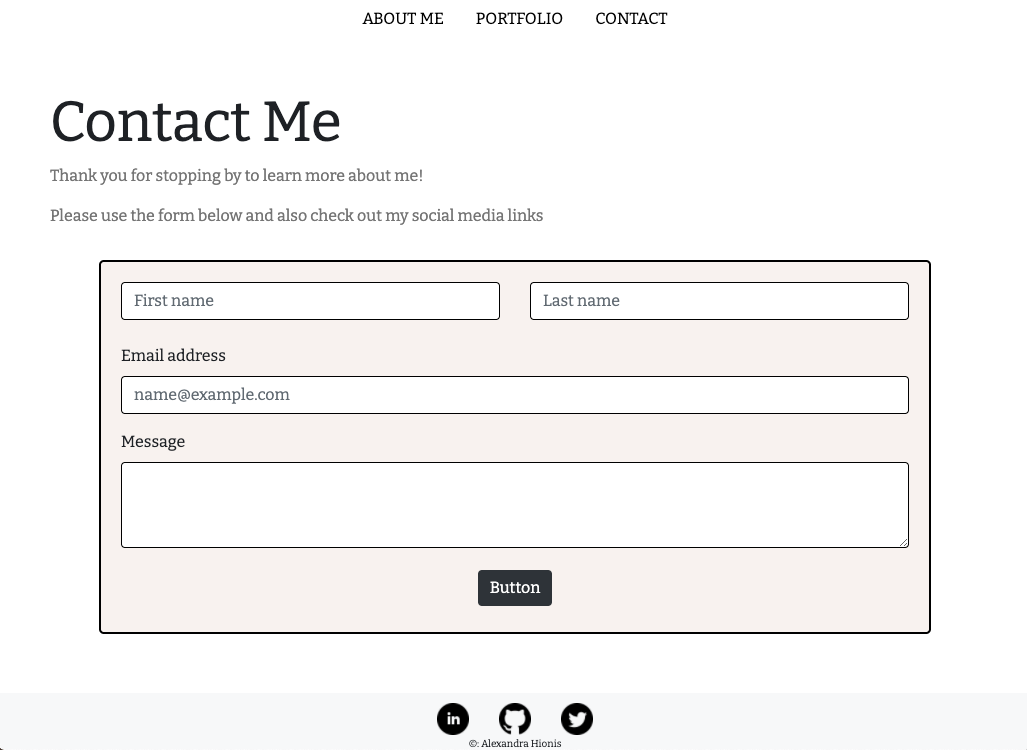
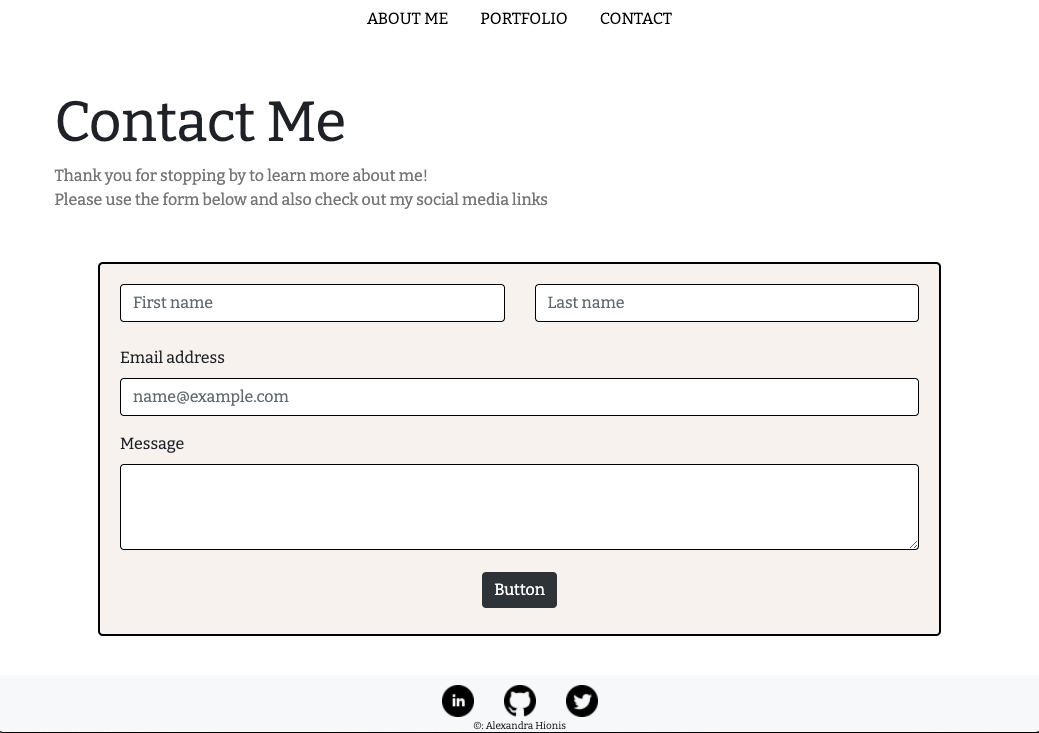
edited portfolio page. Trying to fix weird gap when browser size is reduced

diff --git a/portfolio.html b/portfolio.html
@@ -38,33 +38,48 @@
 
     <!-- start of main section -->
     <main>
-      <div class="jumbotron jumbotron-fluid">
-        <div class="container">
-          <h1 id="portfolio-title" class="display-4">Portfolio</h1>
-          <p id="name-margin" class="portfolio-info">Alexandra Hionis</p>
-          <p>
-            <a class="portfolio-info portfolio-text" href="alexandra.hionis@gmail.com">Email: alexandra.hionis@gmail.com</a>
-          </p>
-          <p class="portfolio-info portfolio-text">Phone: 610-329-4279</p> 
-                
+      <div class="container">
+        <div class="row">
+          <!-- about me -->  
+          <div class="col-12 portfolio-title">
+            <h1 id="portfolio" class="display-4">Portfolio</h1>
+            <p class="portfolio-info">Alexandra Hionis</p> 
+            <p class="portfolio-info"><a class="two" href="alexandra.hionis@gmail.com">Alexandra.hionis@gmail.com</a></p>
+            <p class="portfolio-info">610-329-4279</p> 
+            <p class="portfolio-info"><a class="two" href="" target="blank">Resume</a></p>
+            </div>
         </div>
-    </div>
-
+      </div>
+       
     <!-- <img src="http://placehold.it/350x350" alt="Placeholder" class="img-thumbnail"> -->
 
     <!-- start of portfolio section-->
     <div class="container">
-      <div class="row">
-        <div class="col-sm">
-          One of three columns
-        </div>
-        <div class="col-sm">
-          One of three columns
-        </div>
-        <div class="col-sm">
-          One of three columns
+      <div class="row portfolio-row">
+        <div class="col-">
+          <a href="https://github.com/oxfordblucher/Restaurant-Roulette" target="blank"><img class="placeholders" src="assets/images/UMEWE.png" alt="project image"></a>
         </div>
         
+        <div class="col-">
+          <a href="https://github.com/Alexandra-Hionis/Daily-Work-Planner" target="blank"><img class="placeholders" src="assets/images/planner.png" alt="project image"></a>
+        </div>
+        <div class="col-">
+          <a href="https://github.com/Alexandra-Hionis/secure-password-generator" target="blank"><img class="placeholders" src="assets/images/password.png" alt="project image"></a>
+        </div>
+      </div>
+    </div>
+    <div class="container">
+      <div class="row portfolio-row">
+        <div class="col-">
+          <a href="https://github.com/Alexandra-Hionis/JavaScript-Quiz" target="blank"><img class="placeholders" src="assets/images/quiz.png" alt="project image"></a>
+        </div>
+        
+        <div class="col-">
+          <a href="https://github.com/Alexandra-Hionis/Weather-Dashboard" target="blank"><img class="placeholders" src="assets/images/weather.png" alt="project image"></a>
+        </div>
+        <div class="col-">
+          <a href="" target="blank"><img class="placeholders" src="assets/images/more.png" alt="project image"></a>
+        </div>
       </div>
     </div>
     <!-- end of portfolio section-->

diff --git a/assets/css/portfolio.css b/assets/css/portfolio.css
@@ -10,13 +10,18 @@ body{
 a:hover {
     color: #F9F4F1;
 }
-
-a:hover
-.portfolio-text {
-    color:black;
-    text-decoration: none;   
+a.two:link {
+    color: grey;
+    text-decoration: none;
+}
+a.two:visited {
+    color: grey;
+}
+a.two:hover {
+    color: grey;
 }
 
+/* nav styles */
 .nav-link {
     color: black;
     font-family: 'Bitter', serif;
@@ -38,24 +43,30 @@ a:hover
     padding: 0;
 }
 
-#portfolio-title {
+/* portfolio section styles */
+.portfolio-title {
     background-color: white;
-    margin-top: 50px;   
+    margin-top: 50px;  
+    font-family: 'Bitter', serif;
+    text-align: left; 
 }
 
 .portfolio-info {
     color: grey;
+    margin-bottom: 0;
 }
 
-.portfolio-text {
-    margin-top: -20px;
+.portfolio-row {
+    margin-top: 50px;
 }
 
-#portfolio-span {
-    font-weight: bold;
+/* image styles */
+.placeholders {
+    width: 280px;
+    height: 185px;
+    border: solid black 2px;
+    margin: 10px;
 }
-
-
 /* footer style */
 .navbar {
     display: flex;

diff --git a/contact.html b/contact.html
@@ -39,13 +39,17 @@
     <!-- start of main section -->
     <main>
 
-        <div class="jumbotron jumbotron-fluid">
-            <div class="container">
-              <h1 id="contact" class="display-4">Contact Me</h1>
-                <p class="contact-info">Thank you for stopping by to learn more about me!</p> 
-                <p class="contact-info">Please use the form below and also check out my social media links</p>
+      <div class="container">
+        <div class="row">
+          <!-- about me -->  
+          <div class="col-12 contact-title">
+            <h1 id="contact" class="display-4">Contact Me</h1>
+            <p class="contact-info">Thank you for stopping by to learn more about me!</p> 
+            <p class="contact-info">Please use the form below and also check out my social media links</p>
             </div>
         </div>
+      </div>
+       
       
         <!-- start of contact form section -->
         <form>

diff --git a/assets/css/contact.css b/assets/css/contact.css
@@ -11,6 +11,7 @@ a:hover {
     color: #F9F4F1;
 }
 
+/* nav styles */
 .nav-link {
     color: black;
     font-family: 'Bitter', serif;
@@ -22,18 +23,17 @@ a:hover {
     background-color: white;
 }
 
-/* header jumbotron style */
-.jumbotron {
+/* contact section styles */
+.contact-title {
     font-family: 'Bitter', serif;
-    background-color: white;
-    padding: 0;
+    text-align: left;
 }
 
 /* contact section jumbotron style */
 .jumbotron-form {
     font-family: 'Bitter', serif;
     background-color: #F9F4F1;
-    margin: 0 100px 0px 100px;
+    margin: 50px 100px 0px 100px;
     padding: 20px;
     border: solid black 2px;
 }
@@ -44,6 +44,7 @@ a:hover {
 
 .contact-info{
     color: grey;
+    margin-bottom: 0;
 }
 
 .form-control {

diff --git a/assets/js/script.js b/assets/js/script.js
@@ -1,5 +1,6 @@
 // const submitBtn = document.getElementById("submitBtn");
 
+// click submit button
   $(function() {
     $('#submitBtn').click(function() {
         console.log("submitted!")

diff --git a/assets/css/styles.css b/assets/css/styles.css
@@ -13,6 +13,7 @@ a:hover {
     color: #F9F4F1;
 }
 
+/* nav styles */
 .nav-link {
     color: black;
     font-family: 'Bitter', serif;
